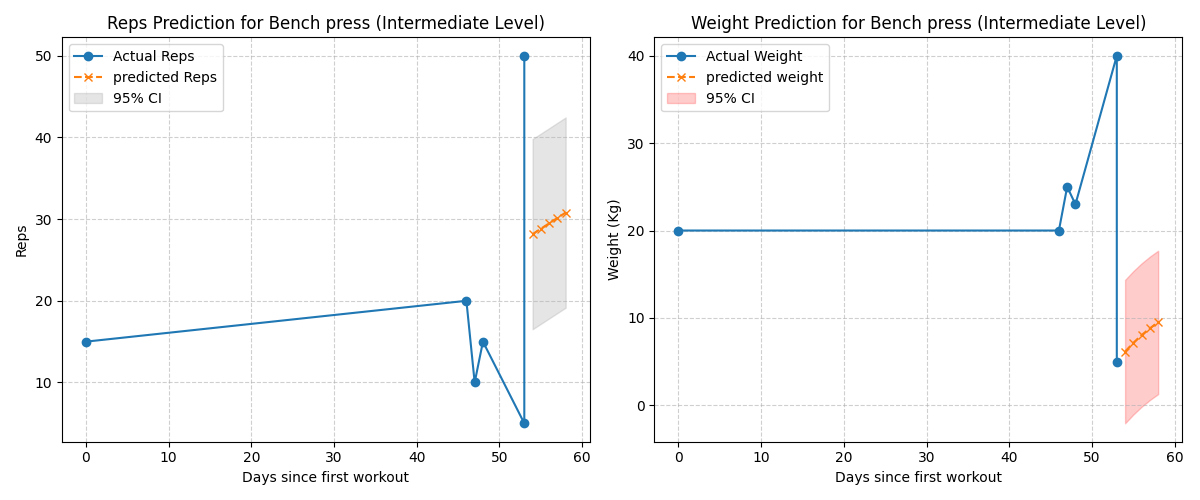
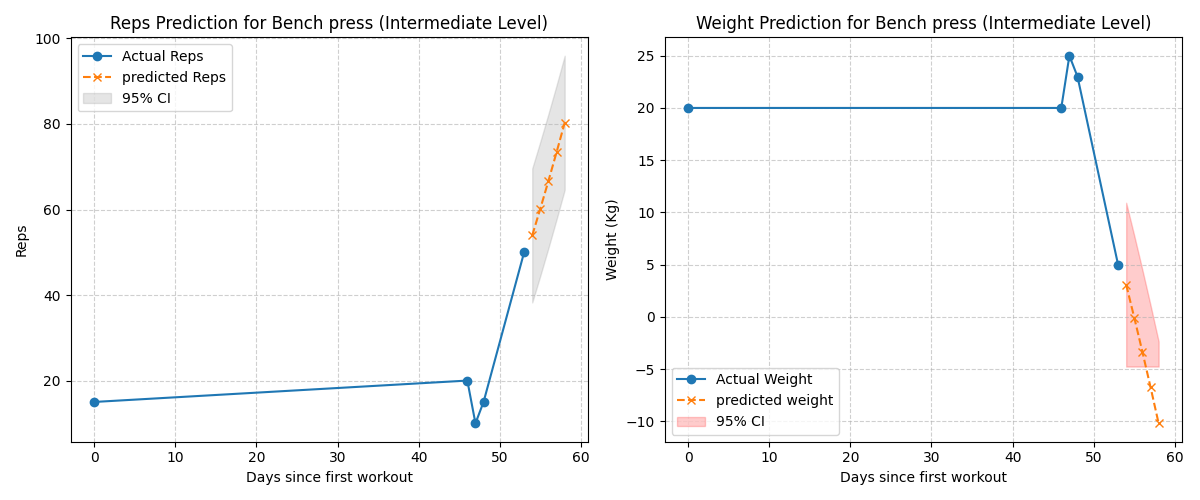
Small change to the predictor

diff --git a/predictor.py b/predictor.py
@@ -87,9 +87,26 @@ def predict_targets(dates, reps, weights, user_level="intermediate", degree=2):
     weights_coeffs = polynomial_regression(days, weights, degree)
 
     # Predictions for reps and weight in the future days
+
     future_reps = np.array([predict(reps_coeffs, d) for d in future_days], dtype=float)
     future_weights = np.array([predict(weights_coeffs, d) for d in future_days], dtype=float)
+    # Clamp predictions so they never go below last actual values
+    # Ensures reps and weights stay non negative
+    last_reps = reps[-1]
+    last_weights = weights[-1]
 
+    future_reps = np.maximum(future_reps, last_reps)
+    future_reps = np.maximum(future_weights, last_weights)
+# Trade off ensures that if weights increase for an exercise
+# Reps will be reduced proportionally 
+# This fully reflects real training as when weights increase reps may decrease
+    for i in range(len(future_days)):
+        if future_weights[i] > last_weights:
+            future_reps[i] = max(future_reps[i] - (future_weights[i] - last_weights) * 0.5, 1)
+# This is for the opposite scenario of reps increasing while weights decrease
+    for i in range(len(future_days)):
+        if future_reps[i] > last_reps:
+            future_weights[i] = max(future_weights[i] - future_reps[i] - last_reps) * 0.2, 1
    # basic if condition if user achieves 90% of the max reps or weights
    # They can ugrade to the next level
     if user_level == "intermediate":
@@ -103,8 +120,7 @@ def predict_targets(dates, reps, weights, user_level="intermediate", degree=2):
         user_level = "expert"
         max_reps, max_weights = 100, 70
     # Makes sure that these predictions are capped at a certain level
-    future_reps = np.array([predict(reps_coeffs, d) for d in future_days], dtype=float)
-    future_weights = np.array([predict(weights_coeffs, d) for d in future_days], dtype=float)
+    
   # This ensures predictions do not exceed max levels
     # Next we calculate the 95% confidence intervals
     # this shows that these predictions are approximations
